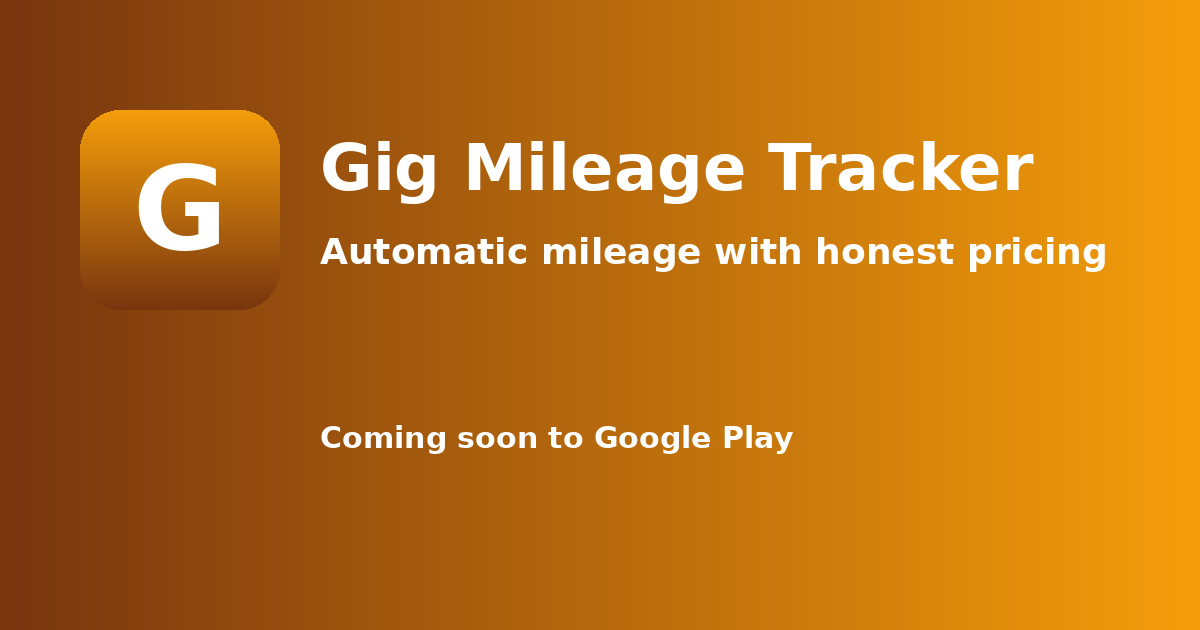
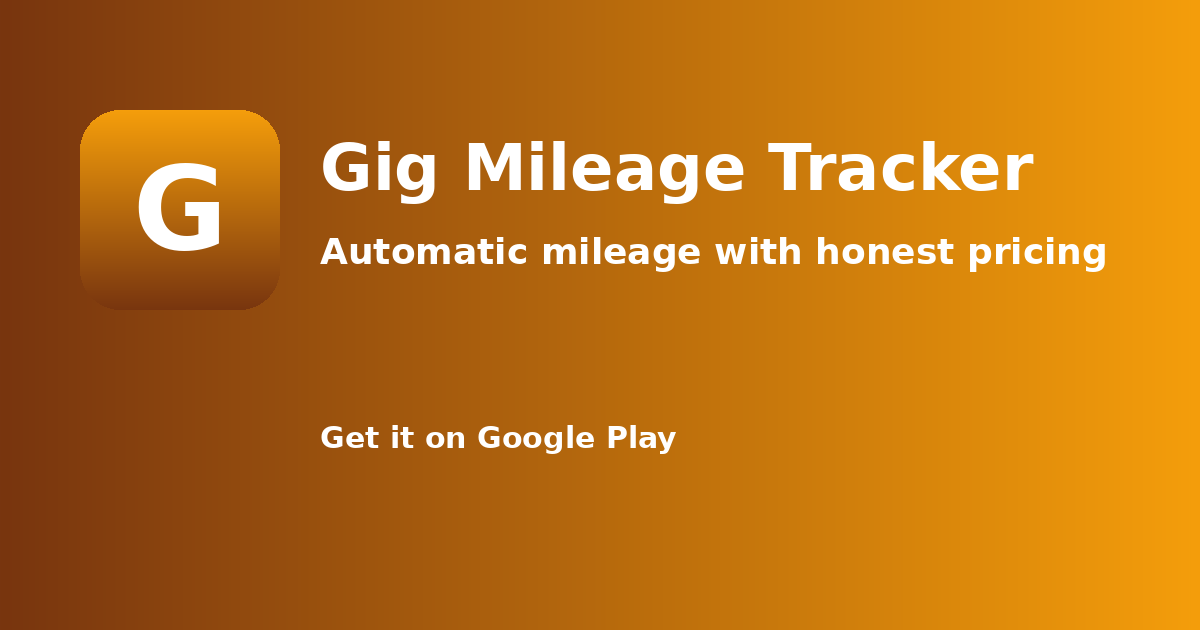
Add Google Play badge now that the app is live

Changed region(s): [[0.2775, 0.6635, 0.6783, 0.7238]]

diff --git a/index.html b/index.html
@@ -6,7 +6,7 @@
 <body><a class="skip" href="#main">Skip to content</a>
 <header class="top"><div class="wrap nav"><a class="brand" href="/gig-mileage-tracker-site/"><img src="/gig-mileage-tracker-site/img/icon-192.png" alt="" width="36" height="36"><span>Gig Mileage</span></a>
 <nav aria-label="Main"><a href="/gig-mileage-tracker-site/#features">Features</a><a href="/gig-mileage-tracker-site/#how">How it works</a><a href="/gig-mileage-tracker-site/#privacy">Privacy</a><a href="/gig-mileage-tracker-site/#faq">FAQ</a><a class="hide-sm" href="/gig-mileage-tracker-site/support/">Support</a></nav></div></header>
-<main id="main"><section class="hero"><div class="wrap"><div class="copy"><span class="kicker">For rideshare and delivery drivers</span><h1>Every mile logged. No trip caps. Ever.</h1><p class="lede">Automatic trip detection on your phone, one-tap business/personal classification, IRS-ready CSV and PDF reports, gig-earnings import and quarterly tax estimates — without a monthly trip limit.</p><div class="ctas"><span class="btn soon" aria-label="Coming soon to Google Play"><span>Coming soon</span><small>to Google Play</small></span><a class="btn ghost" href="/gig-mileage-tracker-site/#features">See what it does</a></div></div>
+<main id="main"><section class="hero"><div class="wrap"><div class="copy"><span class="kicker">For rideshare and delivery drivers</span><h1>Every mile logged. No trip caps. Ever.</h1><p class="lede">Automatic trip detection on your phone, one-tap business/personal classification, IRS-ready CSV and PDF reports, gig-earnings import and quarterly tax estimates — without a monthly trip limit.</p><div class="ctas"><a class="badge" href="https://play.google.com/store/apps/details?id=com.chartmann.gigmileagetracker" rel="noopener"><img src="/gig-mileage-tracker-site/img/play-badge.png" alt="Get it on Google Play" width="216" height="64"></a><a class="btn ghost" href="/gig-mileage-tracker-site/#features">See what it does</a></div></div>
 <div class="art"><img src="/gig-mileage-tracker-site/img/hero.png" alt="" width="520" height="520"></div></div></section>
 <section class="sec" id="features"><div class="wrap"><h2>What it does</h2><p class="sub">Built for drivers who do 40 trips before lunch.</p><div class="grid"><div class="card"><div class="ic" aria-hidden="true"><svg width="26" height="26" viewBox="0 0 24 24" fill="none" stroke="currentColor" stroke-width="2" stroke-linecap="round" stroke-linejoin="round"><path d="M19 17h2c.6 0 1-.4 1-1v-3c0-.9-.7-1.7-1.5-1.9C18.7 10.6 16 10 16 10s-1.3-1.4-2.2-2.3c-.5-.4-1.1-.7-1.8-.7H5c-.6 0-1.1.4-1.4.9l-1.4 2.9A3.7 3.7 0 0 0 2 12v4c0 .6.4 1 1 1h2"/><circle cx="7" cy="17" r="2"/><path d="M9 17h6"/><circle cx="17" cy="17" r="2"/></svg></div><h3>Automatic trip detection</h3><p>Uses your phone&#x27;s activity recognition and location to start and stop trips while you drive. Manual trips too.</p></div><div class="card"><div class="ic" aria-hidden="true"><svg width="26" height="26" viewBox="0 0 24 24" fill="none" stroke="currentColor" stroke-width="2" stroke-linecap="round" stroke-linejoin="round"><path d="M9 11V6a3 3 0 0 1 6 0v5"/><path d="M15 11V9a3 3 0 0 1 6 0v6a7 7 0 0 1-7 7h-1a7 7 0 0 1-7-7v-2a3 3 0 0 1 6 0"/><path d="M9 11a3 3 0 0 0-6 0v1"/></svg></div><h3>One-tap classify</h3><p>Business or personal with one tap; no swipe-grind on every drive.</p></div><div class="card"><div class="ic" aria-hidden="true"><svg width="26" height="26" viewBox="0 0 24 24" fill="none" stroke="currentColor" stroke-width="2" stroke-linecap="round" stroke-linejoin="round"><path d="M14.5 2H6a2 2 0 0 0-2 2v16a2 2 0 0 0 2 2h12a2 2 0 0 0 2-2V7.5L14.5 2z"/><polyline points="14 2 14 8 20 8"/><line x1="8" y1="13" x2="16" y2="13"/><line x1="8" y1="17" x2="16" y2="17"/></svg></div><h3>IRS-ready reports</h3><p>CSV and PDF exports with dates, miles, purpose and the standard mileage rate.</p></div><div class="card"><div class="ic" aria-hidden="true"><svg width="26" height="26" viewBox="0 0 24 24" fill="none" stroke="currentColor" stroke-width="2" stroke-linecap="round" stroke-linejoin="round"><line x1="12" y1="1" x2="12" y2="23"/><path d="M17 5H9.5a3.5 3.5 0 0 0 0 7h5a3.5 3.5 0 0 1 0 7H6"/></svg></div><h3>Gig-earnings import</h3><p>Import the CSV statements your platforms give you and see earnings next to miles.</p></div><div class="card"><div class="ic" aria-hidden="true"><svg width="26" height="26" viewBox="0 0 24 24" fill="none" stroke="currentColor" stroke-width="2" stroke-linecap="round" stroke-linejoin="round"><path d="M4 2v20l2-1 2 1 2-1 2 1 2-1 2 1 2-1 2 1V2l-2 1-2-1-2 1-2-1-2 1-2-1-2 1Z"/><path d="M16 8h-6a2 2 0 1 0 0 4h4a2 2 0 1 1 0 4H8"/><path d="M12 17.5v-11"/></svg></div><h3>Tolls and parking</h3><p>Add expenses to a trip so the report is complete.</p></div><div class="card"><div class="ic" aria-hidden="true"><svg width="26" height="26" viewBox="0 0 24 24" fill="none" stroke="currentColor" stroke-width="2" stroke-linecap="round" stroke-linejoin="round"><rect x="4" y="2" width="16" height="20" rx="2"/><line x1="8" y1="6" x2="16" y2="6"/><line x1="16" y1="14" x2="16" y2="18"/><line x1="16" y1="10" x2="16.01" y2="10"/><line x1="12" y1="10" x2="12.01" y2="10"/><line x1="8" y1="10" x2="8.01" y2="10"/><line x1="12" y1="14" x2="12.01" y2="14"/><line x1="8" y1="14" x2="8.01" y2="14"/><line x1="12" y1="18" x2="12.01" y2="18"/><line x1="8" y1="18" x2="8.01" y2="18"/></svg></div><h3>Quarterly tax estimates</h3><p>A simple estimate from your business miles and imported earnings.</p></div></div></div></section>
 <section class="sec alt" id="video"><div class="wrap"><h2>See it in action</h2><p class="sub">A short walkthrough of the real app.</p><div class="video"><iframe src="https://www.youtube-nocookie.com/embed/CQkKsYtuKfg?rel=0" title="Gig Mileage Tracker promo video" loading="lazy" allow="accelerometer; autoplay; clipboard-write; encrypted-media; gyroscope; picture-in-picture; web-share" allowfullscreen referrerpolicy="strict-origin-when-cross-origin"></iframe></div></div></section>
@@ -17,7 +17,7 @@
 <section class="sec alt" id="privacy"><div class="wrap"><h2>Private by design</h2><p class="sub">Your trips stay on your phone. Location is used only to record your drives and is never sent to a server of ours. No account.</p><p><a href="/gig-mileage-tracker-site/privacy/">Read the full privacy policy</a> &middot; <a href="/gig-mileage-tracker-site/delete/">How to delete your data</a></p></div></section>
 <section class="sec" id="languages"><div class="wrap"><h2>In your language</h2><p class="sub">On first launch you pick your language. The app downloads a free on-device translation pack from Google (ML Kit) for it and translates its screens on your phone; you can change the language any time in Settings. Translations are automatic, so a phrase may read a little differently than a native speaker would put it.</p></div></section>
 <section class="sec alt" id="faq"><div class="wrap narrow"><h2>FAQ</h2><details><summary>Does it track me all the time?</summary><p>Trip detection runs in the background while tracking is on, with a visible notification. Turn tracking off any time and nothing is recorded.</p></details><details><summary>Where is my location data stored?</summary><p>Only on your phone, in the app's private database. It is not uploaded anywhere.</p></details><details><summary>Is this tax advice?</summary><p>No. Reports and estimates are tools for your records; confirm with a tax professional.</p></details><details><summary>Which platforms can I import?</summary><p>CSV statements with date and amount columns; the importer lets you map the columns.</p></details><details><summary>How do I get help?</summary><p>Open an issue on our <a href="https://github.com/chartmann1590/gig-mileage-tracker-site/issues/new">GitHub page</a>.</p></details></div></section>
-<section class="sec cta-end"><div class="wrap"><h2>Log the miles you are owed.</h2><div class="ctas"><span class="btn soon" aria-label="Coming soon to Google Play"><span>Coming soon</span><small>to Google Play</small></span></div></div></section></main>
+<section class="sec cta-end"><div class="wrap"><h2>Log the miles you are owed.</h2><div class="ctas"><a class="badge" href="https://play.google.com/store/apps/details?id=com.chartmann.gigmileagetracker" rel="noopener"><img src="/gig-mileage-tracker-site/img/play-badge.png" alt="Get it on Google Play" width="216" height="64"></a></div></div></section></main>
 
 <!-- BEGIN AADS AD UNIT 2459480 -->
 <div class="aads-slot" style="width:100%;margin:24px auto 16px;text-align:center;clear:both">

diff --git a/style.css b/style.css
@@ -35,3 +35,4 @@ details{border:1px solid var(--line);border-radius:14px;background:#fff;padding:
 .foot{margin-top:auto;border-top:1px solid var(--line);padding:30px 0;color:var(--muted);font-size:14px}.foot-links{display:flex;flex-wrap:wrap;gap:16px;margin-bottom:10px}.foot-links a{font-weight:600}.tm{font-size:12px}
 
 .video{position:relative;width:100%;max-width:960px;margin:0 auto;aspect-ratio:16/9;border-radius:18px;overflow:hidden;background:#000;box-shadow:0 10px 30px rgba(15,23,42,.18)}.video iframe{position:absolute;inset:0;width:100%;height:100%;border:0}
+.badge{display:inline-block;line-height:0}.badge img{display:block;height:84px;width:auto}
